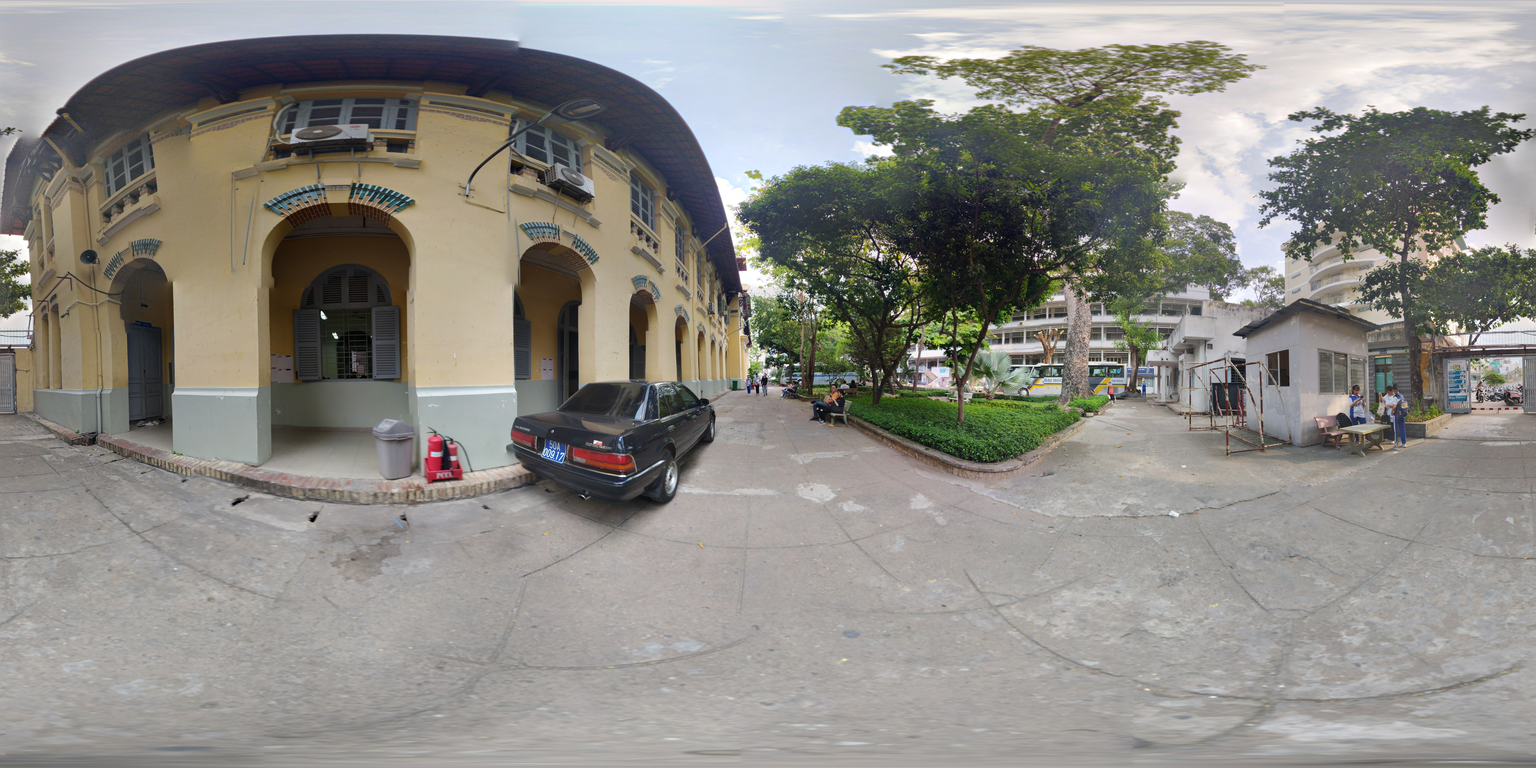
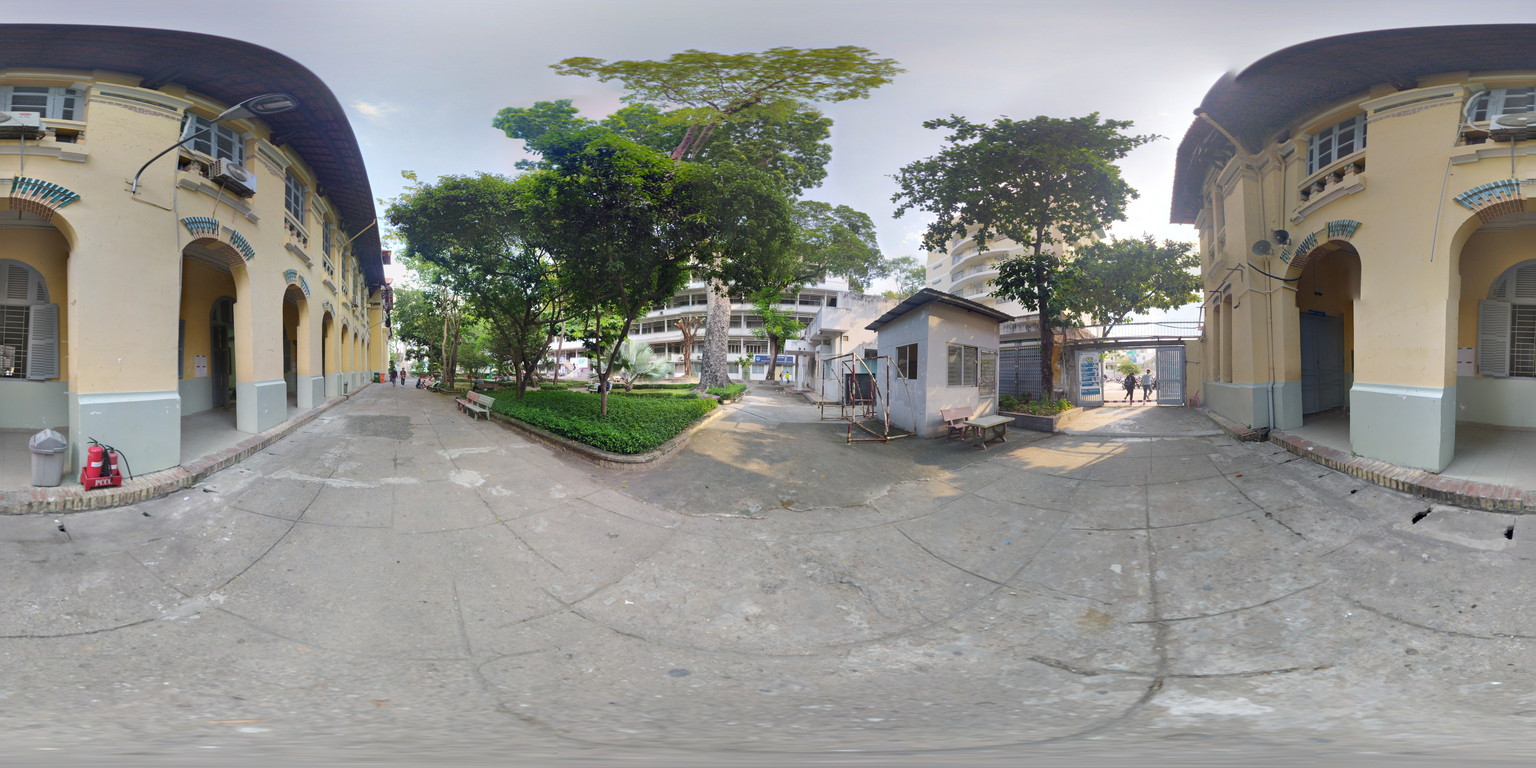
Add a few location, small fix some area

diff --git a/src/Language.js b/src/Language.js
@@ -77,18 +77,18 @@ export default class Language
 			case 'localPL': return 'Parking Lot';
 			// Location
 			case 'CADV': return "An Duong Vuong Gate";
-			case 'CADV2': return "Parking Lot Exit Gate";
-			case 'C02': case 'C01': case 'HB': return "School Field C";
-			case 'D01': return "School Field D";
-			case 'B01': case 'B02': case 'B03': return "School Field B";
-			case 'B04': case 'B05': return "KLF Back Area";
-			case 'A01': case 'A02': case 'A03': case 'A04': case 'A05': return "School Field A";
-			case 'KNT': return "Arts Faculty Area";
-			case 'GX1': case 'GX3': return "Parking Lot Exit";
-			case 'GX2': return "Basketball Field";
-			case 'GX4': return "Parking Lot Exit";
+			case 'CADV2': return "Parking lot exit gate";
+			case 'C02': case 'C01': case 'HB': return "School field C";
+			case 'D01': return "School field D";
+			case 'B01': case 'B02': case 'B03': return "School field B";
+			case 'B04': case 'B05': return "KLF back area";
+			case 'A01': case 'A02': case 'A03': case 'A04': case 'A05': case 'A06': return "School field A";
+			case 'KNT': return "Arts Faculty area";
+			case 'GX1': case 'GX3': return "Parking lot";
+			case 'GX2': return "Basketball field";
+			case 'GX4': return "Parking lot exit";
 			case 'E01': case 'E02': return "Block E";
-			case 'E03': return "School Field E";
+			case 'E03': return "School field E";
 			case 'CNT': return "Nguyen Trai Gate";
 			// Infomation
 			case 'PBV': return "Security room of Saigon University."+this.lorem;
@@ -96,11 +96,12 @@ export default class Language
 			case 'ATM': return "ATM of AGRIBANK, where students can withdraw cash directly without going to the bank."+this.lorem;
 			case 'THP': return "Tuition fees collection and scholarship receipt information place."+this.lorem;
 			case 'KTHB': case 'KTHC': return "Self-study area, an area for students to study on by themselves, eat or take a lunch break."+this.lorem;
-			case 'KLF': return "KLF, where students can use internet service for a certain fee."+this.lorem;
+			case 'KLF': return "KLF, where students can use internet service for a certain fee, find documents with a giant bookcase."+this.lorem;
+			case 'TV': return "The library is a place where students can borrow and return books, find and read documents and textbooks of many different disciplines"+this.lorem;
 			case 'CT': return "School Canteen."+this.lorem;
 			case 'KNU': return "Students drinking water area, where students can get free drinking water."+this.lorem;
 			case 'PYT': return "Medical Room."+this.lorem;
-			case 'CSNT': return "Back Gate."+this.lorem;
+			case 'CSNT': return "Back Gate. Usually the gate used for starting field trips or school sporting events."+this.lorem;
 			case 'HGXE': case 'HGXD': return "Parking Garage."+this.lorem;
 			case 'SBB': return "Table tennis field."+this.lorem;
 			case 'SCL': return "Badminton field."+this.lorem;
@@ -151,12 +152,12 @@ export default class Language
 			case 'localPL': return "Bãi gửi xe";
 			// Location
 			case 'CADV': return "Cổng An Dương Vương";
-			case 'CADV2': return "Cổng Ra Xe An Dương Vương";
+			case 'CADV2': return "Cổng ra xe An Dương Vương";
 			case 'C02': case 'C01': case 'HB': return "Sân C";
 			case 'D01': return "Sân D";
 			case 'B01': case 'B02': case 'B03': return "Sân B";
 			case 'B04': case 'B05': return "Lối đi sau KLF";
-			case 'A01': case 'A02': case 'A03': case 'A04': case 'A05': return "Sân A";
+			case 'A01': case 'A02': case 'A03': case 'A04': case 'A05': case 'A06': return "Sân A";
 			case 'KNT': return "Khu Nghệ Thuật";
 			case 'GX1': case 'GX3': return "Bãi gửi xe";
 			case 'GX2': return "Sân bóng rổ";
@@ -170,11 +171,12 @@ export default class Language
 			case 'ATM': return "Trụ ATM ngân hàng AGRIBANK, nơi sinh viên có thể rút tiền mặt trực tiếp mà không cần ra ngân hàng."+this.lorem;
 			case 'THP': return "Điểm thu học phí trực tiếp và gửi thông tin nhận học bổng."+this.lorem;
 			case 'KTHB': case 'KTHC': return "Khu tự học, một khu vực dành cho sinh viên có thể tự học, ăn uống hoặc nghỉ trưa."+this.lorem;
-			case 'KLF': return "KLF, nơi sinh viên có thể sử dụng dịch vụ internet với phí nhất định."+this.lorem;
+			case 'KLF': return "KLF, nơi sinh viên có thể sử dụng dịch vụ internet với phí nhất định, tìm tài liệu với một tủ sách khổng lồ."+this.lorem;
+			case 'TV': return "Thư viện là nơi sinh viên có thể mượn trả sách, tìm đọc tài liệu, giáo trình của nhiều ngành khác nhau."+this.lorem;
 			case 'CT': return "Căn tin trường."+this.lorem;
 			case 'KNU': return "Khu vực nước uống sinh viên, nơi sinh viên có thể lấy nước uống miễn phí."+this.lorem;
 			case 'PYT': return "Phòng y tế."+this.lorem;
-			case 'CSNT': return "Cổng sau."+this.lorem;
+			case 'CSNT': return "Cổng sau. Thường là cổng dùng để xuất phát của các chuyến xe đi thực tế hoặc các sự kiện hội thao của trường."+this.lorem;
 			case 'HGXE': case 'HGXD': return "Hầm gửi xe."+this.lorem;
 			case 'SBB': return "Sân bóng bàn."+this.lorem;
 			case 'SCL': return "Sân cầu lông."+this.lorem;

diff --git a/src/DataSource.js b/src/DataSource.js
@@ -28,7 +28,7 @@ export default class DataSource
 				{name: 'GX4', pos: [28,6,499]}
 			],
 			info: [],
-			position: {x: 0.3747384649267702, y: 0.36703006276841754},
+			position: {x: 0.37908138401559455, y: 0.3739035087719298},
 			rotation: BABYLON.Tools.ToRadians(92)
 		};
 
@@ -90,7 +90,7 @@ export default class DataSource
 				{name: 'A02', pos: [6,-3,500]},
 				{name: 'B02', pos: [-3,18,-499]},
 				{name: 'B03', pos: [440,7,-236]},
-				{name: 'B05', pos: [-497,5,-46]}
+				{name: 'B05', pos: [-498,10,36]}
 			],
 			info: [
 				{name: 'KTHB', pos: [-499,9,-4]},
@@ -123,11 +123,11 @@ export default class DataSource
 			link: [
 				{name: 'B01', pos: [-298,-13,400]},
 				{name: 'B02', pos: [-318,-1,-385]},
-				{name: 'KLF', pos: [-499,-6,5]},
 				{name: 'GX2', pos: [499,-12,-10]}
 			],
 			info: [
-				{name: 'CT', pos: [444,-3,229]}
+				{name: 'CT', pos: [444,-3,229]},
+				{name: 'KLF', pos: [-499,-6,5]}
 			],
 			position: {x: 0.515193211787639, y: 0.515193211787639},
 			rotation: BABYLON.Tools.ToRadians(272),
@@ -149,14 +149,15 @@ export default class DataSource
 
 		this.loc['B05'] = {
 			link: [
-				{name: 'B01', pos: [285,21,409]},
-				{name: 'B04', pos: [0,-10,-500]}
+				{name: 'B01', pos: [495,29,58]},
+				{name: 'B04', pos: [2,14,-499]},
+				{name: 'A06', pos: [-457,-24,199]}
 			],
 			info: [
-				{name: 'KTHB', pos: [228,-3,445]}
+				{name: 'KTHB', pos: [474,34,-154]}
 			],
 			position: {x: 0.6668854071260298, y: 0.4671916010498688},
-			rotation: BABYLON.Tools.ToRadians(175)
+			rotation: BABYLON.Tools.ToRadians(355)
 		};
 
 		this.loc['A01'] = {
@@ -204,26 +205,40 @@ export default class DataSource
 
 		this.loc['A04'] = {
 			link: [
-				{name: 'A03', pos: [-43,-3,498]},
-				{name: 'A02', pos: [-499,8,11]},
-				{name: 'GX1', pos: [495,-1,69]}
+				{name: 'A03', pos: [4,17,499]},
+				{name: 'A02', pos: [-498,18,30]},
+				{name: 'GX1', pos: [497,11,48]}
 			],
 			info: [
 			],
 			position: {x: 0.5386204300021298, y: 0.6038827099091715},
-			rotation: BABYLON.Tools.ToRadians(0)
+			rotation: BABYLON.Tools.ToRadians(90)
 		};
 
 		this.loc['A05'] = {
 			link: [
 				{name: 'A01', pos: [496,22,56]},
 				{name: 'A02', pos: [405,18,-292]},
-				{name: 'KNT', pos: [-499,17,-15]}
+				{name: 'A06', pos: [-499,17,-15]}
 			],
 			info: [
 			],
 			position: {x: 0.6738845144356955, y: 0.5634295713035871},
 			rotation: BABYLON.Tools.ToRadians(90)
+		};
+
+		this.loc['A06'] = {
+			link: [
+				{name: 'A05', pos: [431,17,-251]},
+				{name: 'KNT', pos: [-498,25,18]},
+				{name: 'B05', pos: [-52,45,-495]}
+			],
+			info: [
+				{name: 'TV', pos: [-276,75,409]}
+			],
+			position: {x: 0.7333447999082674, y: 0.5369797041623667},
+			rotation: BABYLON.Tools.ToRadians(270),
+			sun: {x: 404, y: 243, z: -165}
 		};
 
 		this.loc['KNT'] = {
@@ -241,7 +256,7 @@ export default class DataSource
 				{name: 'A04', pos: [-481,-2,137]},
 				{name: 'E03', pos: [-220,24,448]},
 				{name: 'E02', pos: [180,38,465]},
-				{name: 'GX2', pos: [0,-1,-500]}
+				{name: 'GX2', pos: [-240,6,-438]}
 			],
 			info: [
 				{name: 'HGXE', pos: [234,-5,441]},
@@ -255,7 +270,7 @@ export default class DataSource
 
 		this.loc['GX2'] = {
 			link: [
-				{name: 'GX1', pos: [13,29,498]},
+				{name: 'GX1', pos: [89,34,490]},
 				{name: 'B03', pos: [-499,0,-5]},
 				{name: 'GX3', pos: [18,7,-499]}
 			],
@@ -331,16 +346,20 @@ export default class DataSource
 
 		this.loc['CNT'] = {
 			link: [
-				{name: 'E01', pos: [-39,43,-496]},
-				{name: 'E03', pos: [-458,18,-198]}
+				{name: 'E01', pos: [-123,35,-482]},
+				{name: 'E03', pos: [-473,9,-159]}
 			],
 			info: [
-				{name: 'GXI', pos: [429,-16,-255]}
+				{name: 'GXI', pos: [365,-13,-341]}
 			],
 			position: {x: 0.4968466918931315, y: 0.7342047930283224},
-			rotation: BABYLON.Tools.ToRadians(0),
+			rotation: BABYLON.Tools.ToRadians(90),
 			sun: {x: 404, y: 243, z: -165}
 		};
+
+		
+
+	
 	}
 
 	initMusic()
